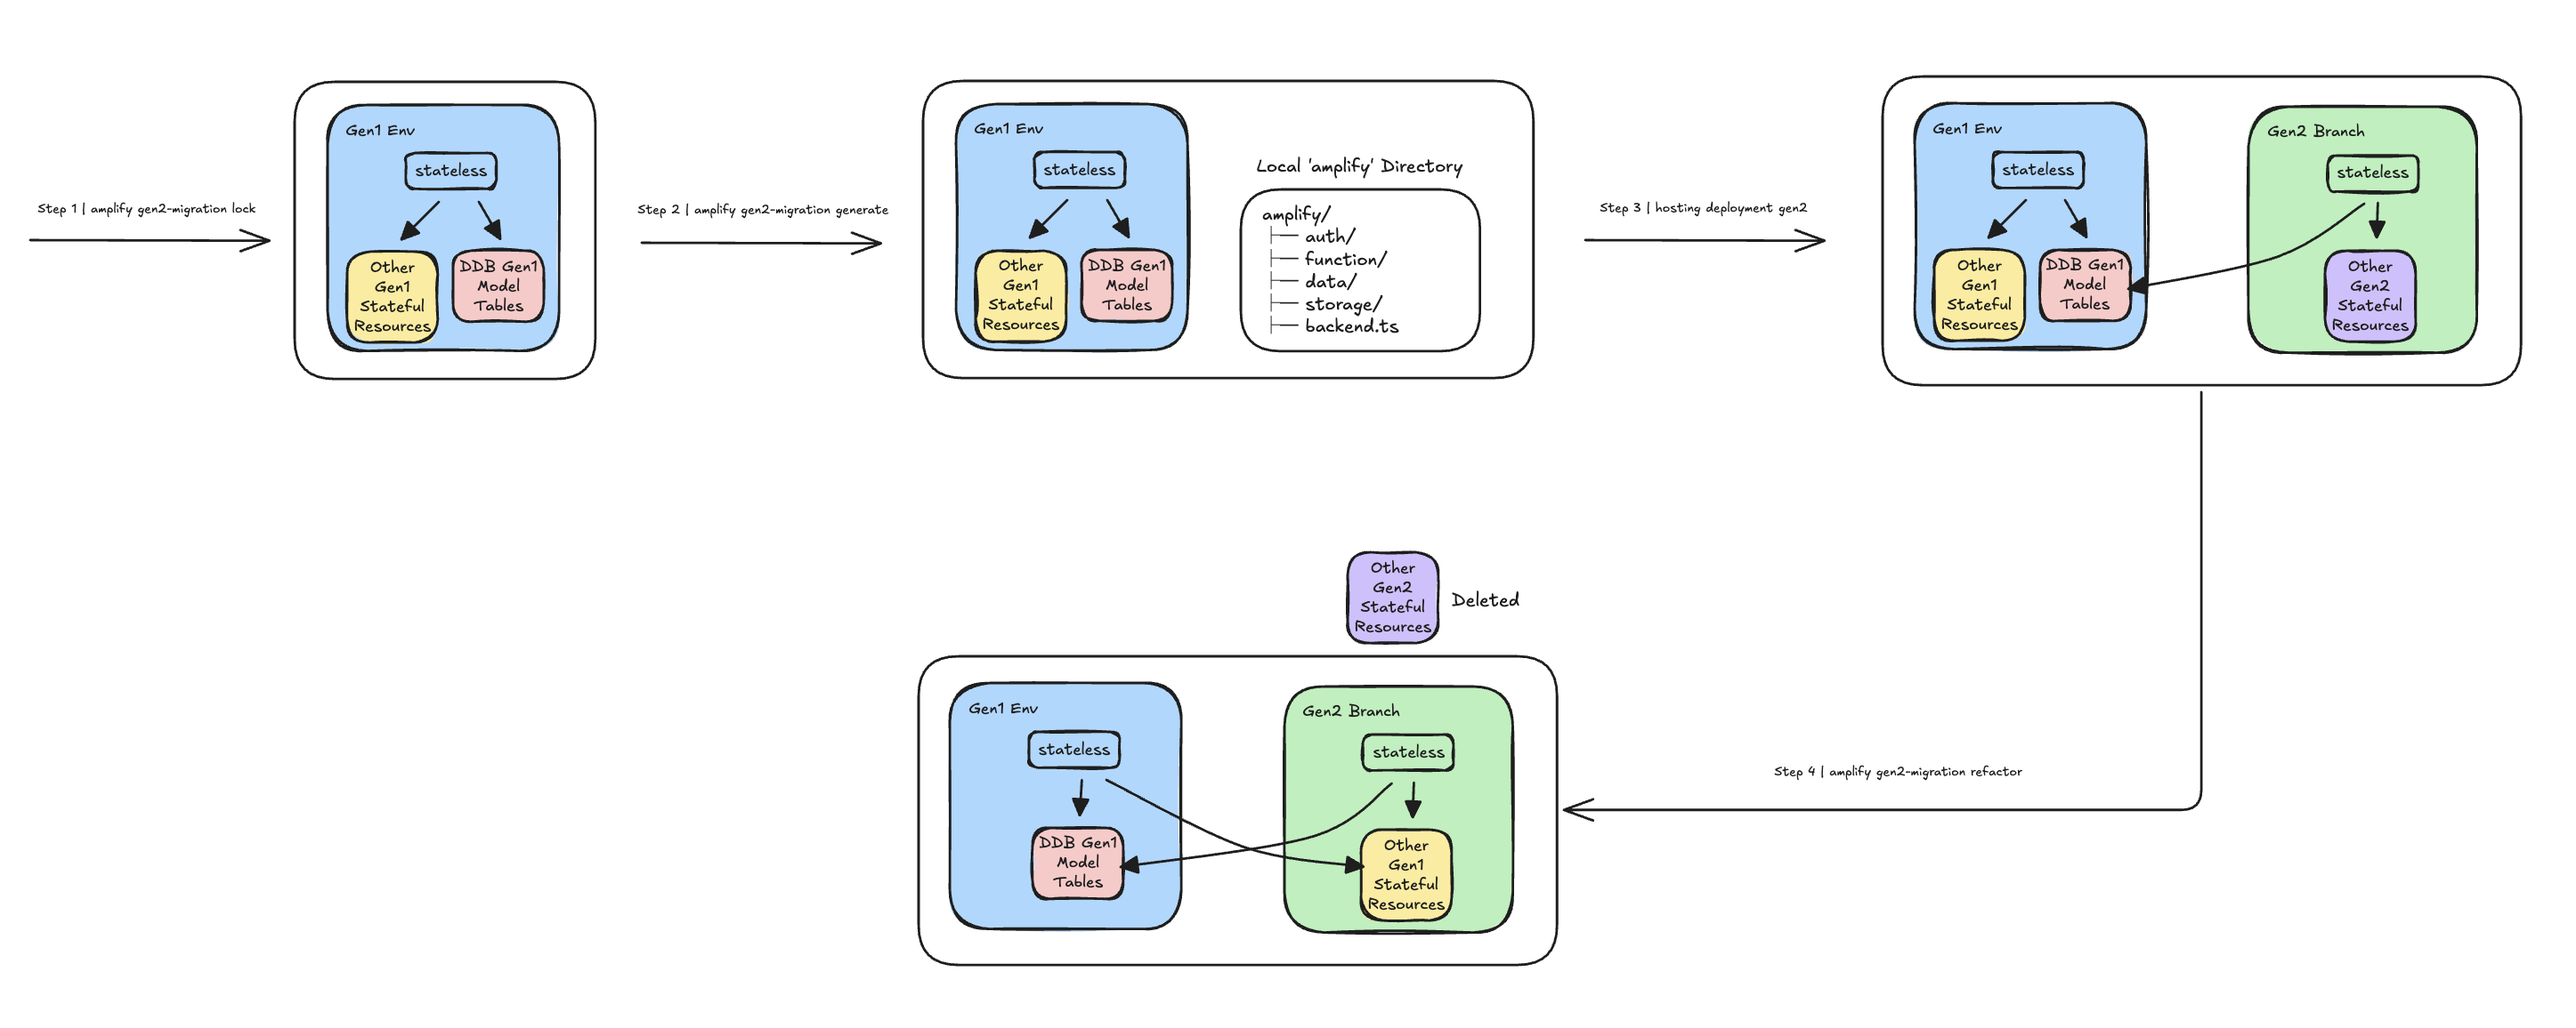
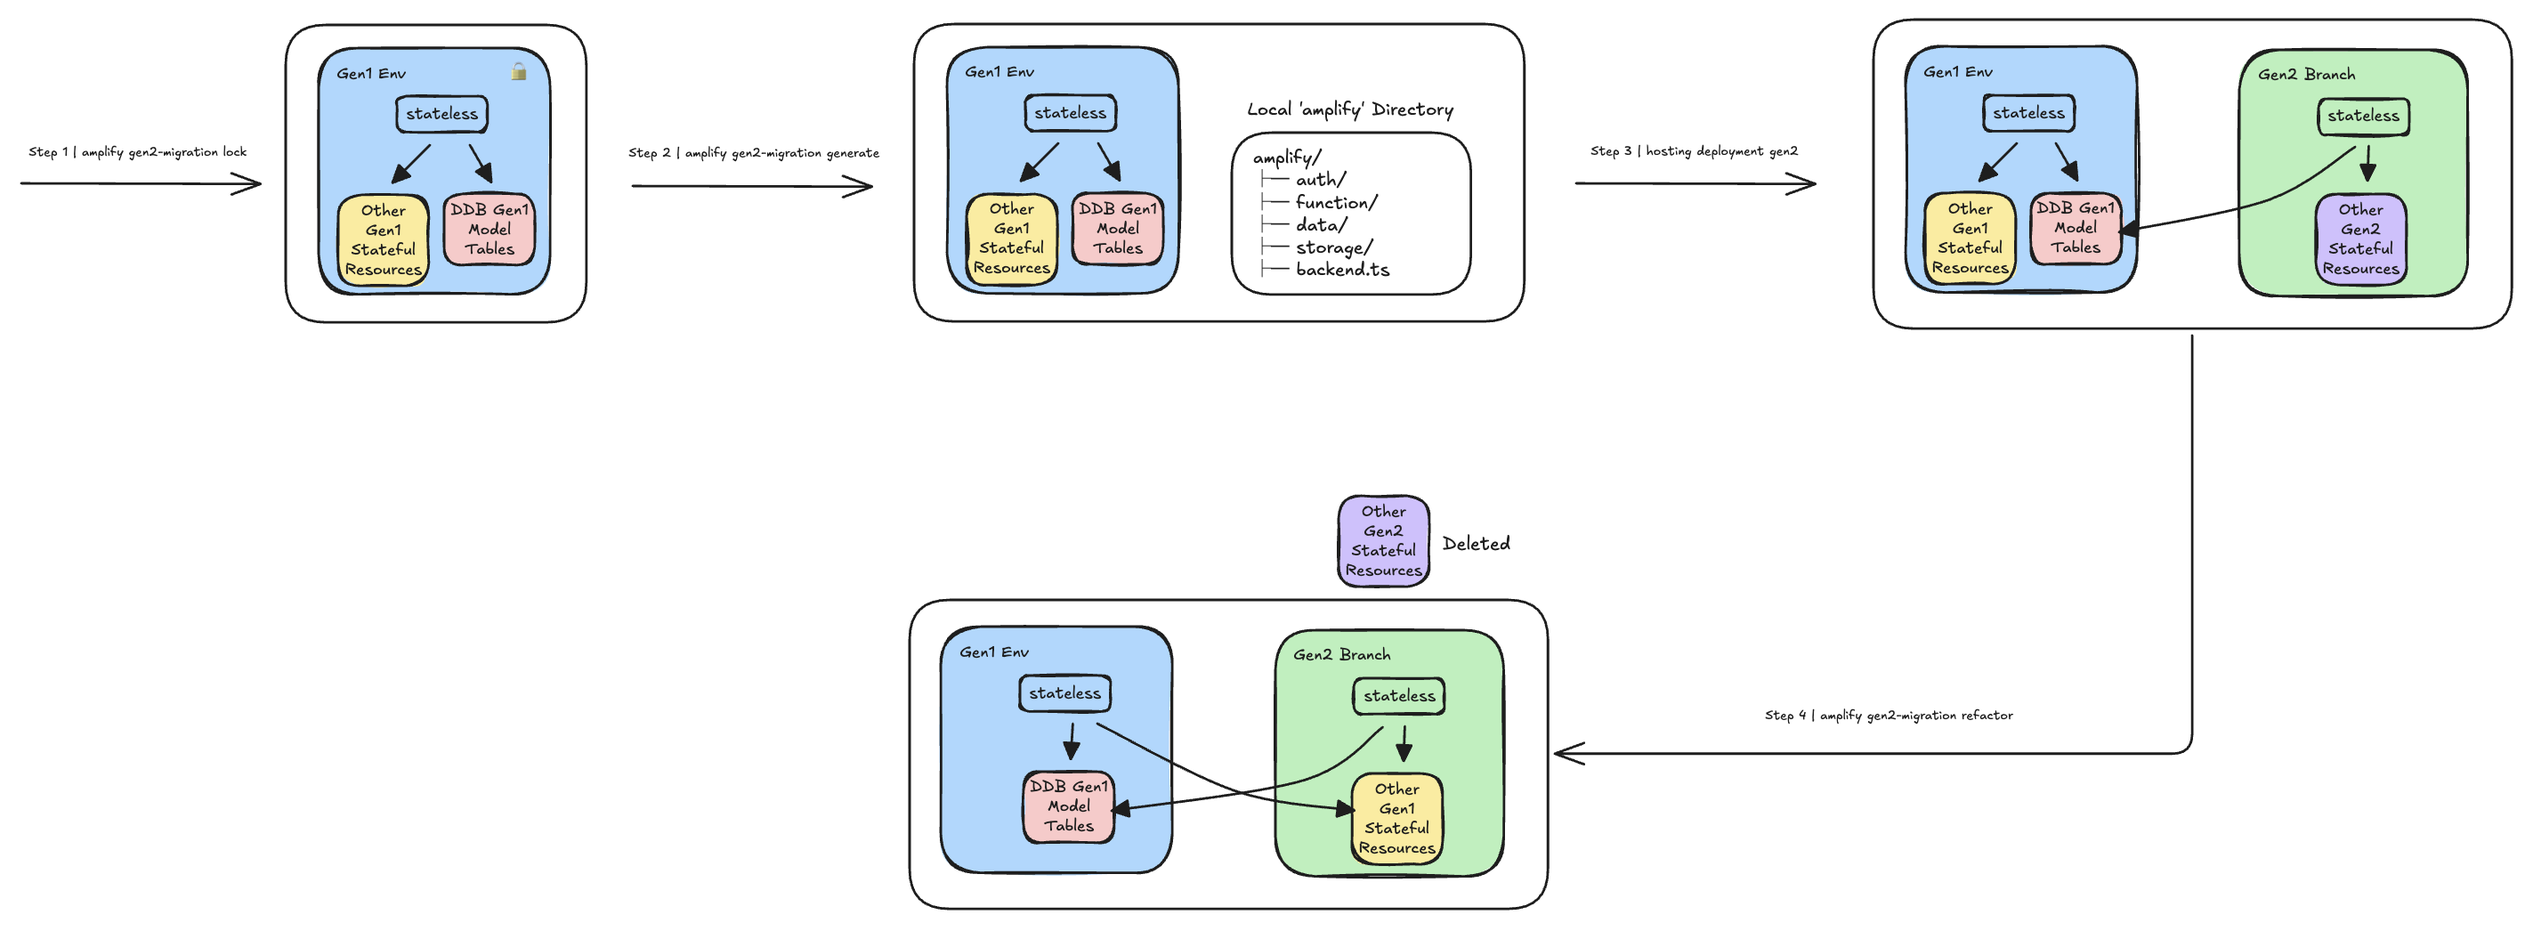
chore: mid work

diff --git a/GEN2_MIGRATION_GUIDE.md b/GEN2_MIGRATION_GUIDE.md
@@ -10,14 +10,19 @@ Following document describes how to migrate your Gen1 environment to a new Gen2 
 
 Migration to Gen2 is done in a (partial) blue/green deployment approach.
 
-1. Amplify CLI will code-generate the neccessary Gen2 definition files based on your deployed Gen1 environment.
-2. You'll need to perform some manual edits on those files. How much exactly varries depending on the app itself.
-3. These new files will be pushed to a new branch and deployed via the hosting service. Apart from the DynamoDB tables that host your models (see [below](#note-on-dynamodb-model-tables)), all stateful resources will be cloned and your Gen2 application will start with empty data for those.
-4. Amplify CLI will refactor your underlying CloudFormation stacks such that any Gen1 stateful resource (e.g `UserPool`) 
+1. Ampliyf CLI will _lock_ your Gen1 environment by attaching a `Deny:*` policy to the root CloudFormation stack. 
+This will intentionally prevent updates during migration.
+2. Amplify CLI will _generate_ the neccessary Gen2 definition files based on your deployed Gen1 environment.
+3. You will perform some manual edits on those files. How much exactly varries depending on the app itself.
+4. Generated code will be pushed to a new branch and deployed via the hosting service. Apart from the DynamoDB tables 
+that host your models (see [below](#note-on-dynamodb-model-tables)), all stateful resources (e.g `UserPool`) will be cloned and your 
+Gen2 application will start with empty data for those.
+5. Amplify CLI will _refactor_ (using [CloudFormation Refactor](https://docs.aws.amazon.com/AWSCloudFormation/latest/UserGuide/stack-refactoring.html)) 
+your underlying CloudFormation stacks such that any Gen1 stateful resource (e.g `UserPool`) 
 will be reused and managed by the new Gen2 deployment.
 
 > [!CAUTION]
-> The refactor operation is currently not reversable. If it fails or 
+> The `refactor` operation is currently not reversable. If it fails or 
 > produces undesired results, you will need to recreate the environment. **Make sure you 
 > run it only on environments you can afford to delete**.
 
@@ -43,7 +48,8 @@ The Gen2 deployment will create new empty instances of these resources. This all
 (e.g user registration) on the Gen2 deployment without impacting your Gen1 app. 
 
 Once you are satisified the Gen2 application works correctly, `refactor` will bring these resources as well from your 
-Gen1 app to your Gen2 app. After `refactor`, your Gen2 application shares and **ALL** data with your Gen1 app.
+Gen1 app to your Gen2 app. After `refactor`, the new instances are deleted and your Gen2 application shares and **ALL** 
+data with your Gen1 app.
 
 ## Prerequisites 
 
